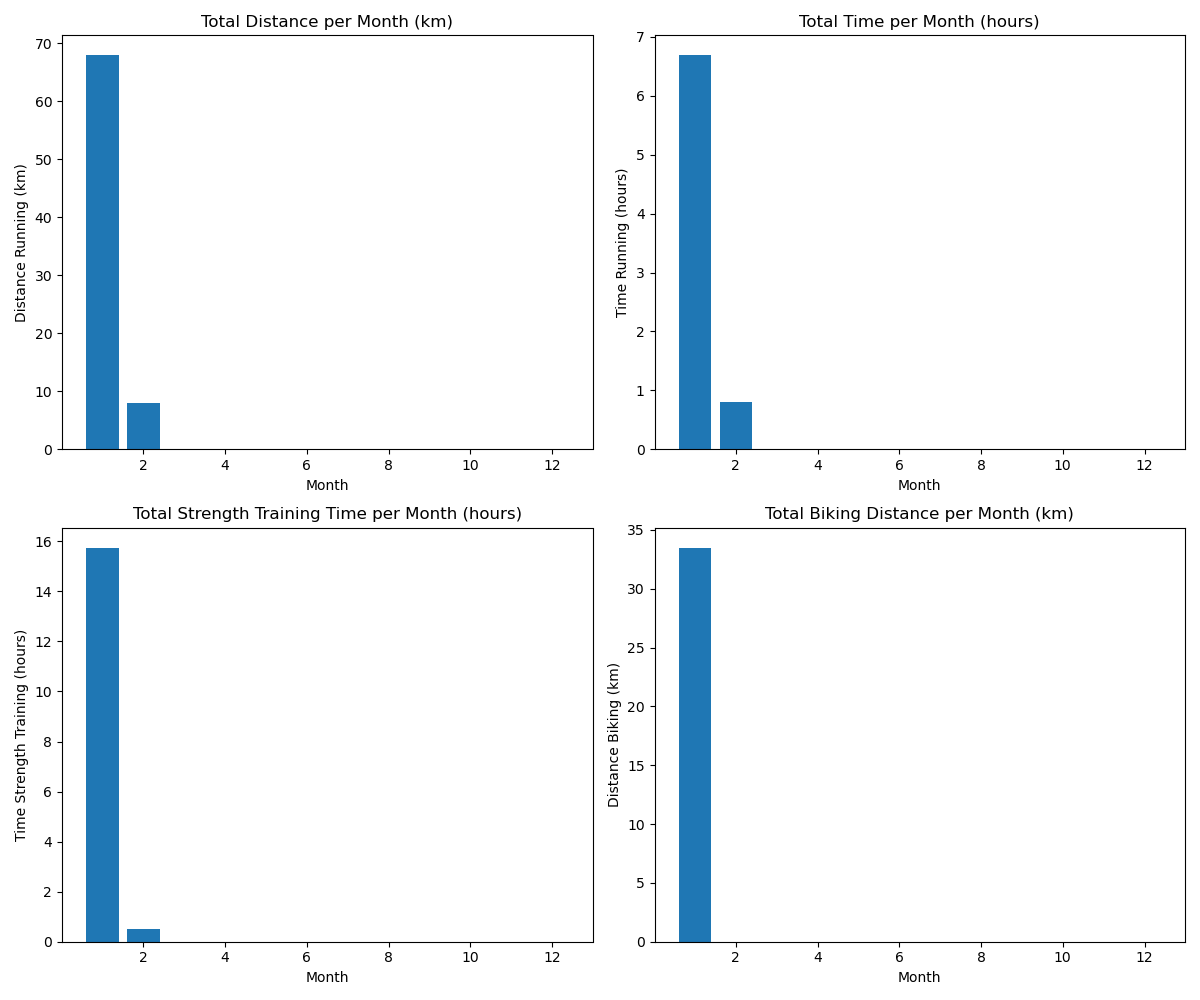
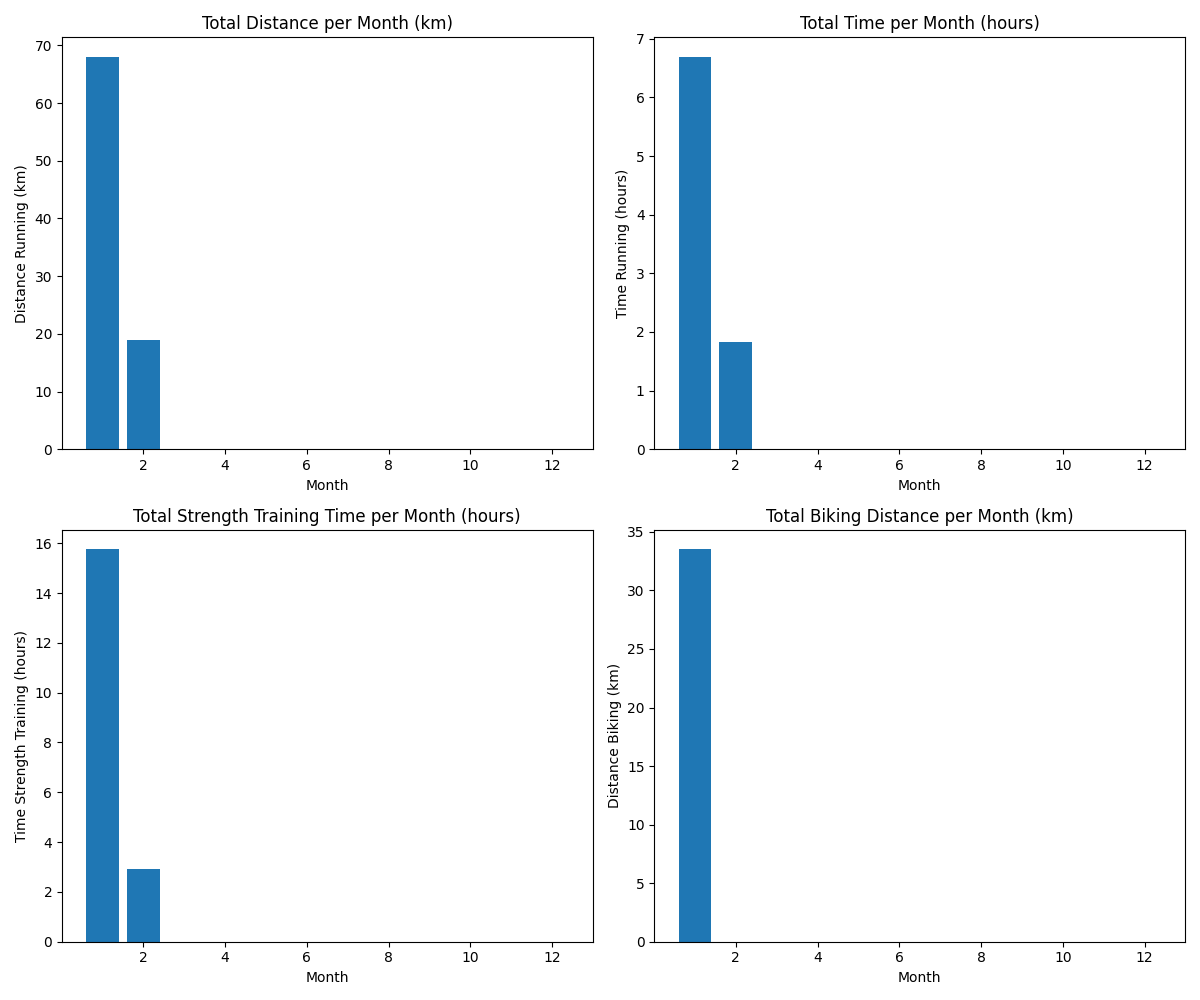
sport update 4.2

diff --git a/Sport/Sport_2026_report.md b/Sport/Sport_2026_report.md
@@ -3,19 +3,19 @@
 ## Sport Counts
 | type   |   count |
 |:-------|--------:|
-| F      |      20 |
+| F      |      23 |
 | K      |       5 |
-| Total  |      25 |
+| Total  |      28 |
 
 ## Summary
-- **Total distance run on treadmill:** 76.00 km
+- **Total distance run on treadmill:** 87.00 km
 - **Total distance run outside:** 0.00 km
 - **Total distance cycled:** 33.50 km
 - **Total distance swimming:** 0.00 km
-- **Total time spent on strength training:** 16h 15min
+- **Total time spent on strength training:** 18h 40min
 
 ## Average Speeds
-- **Treadmill running:** 10.25 km/h
+- **Treadmill running:** 10.31 km/h
 - **Outside running:** nan km/h
 - **Cycling:** 23.12 km/h
 - **Swimming:** nan km/h
